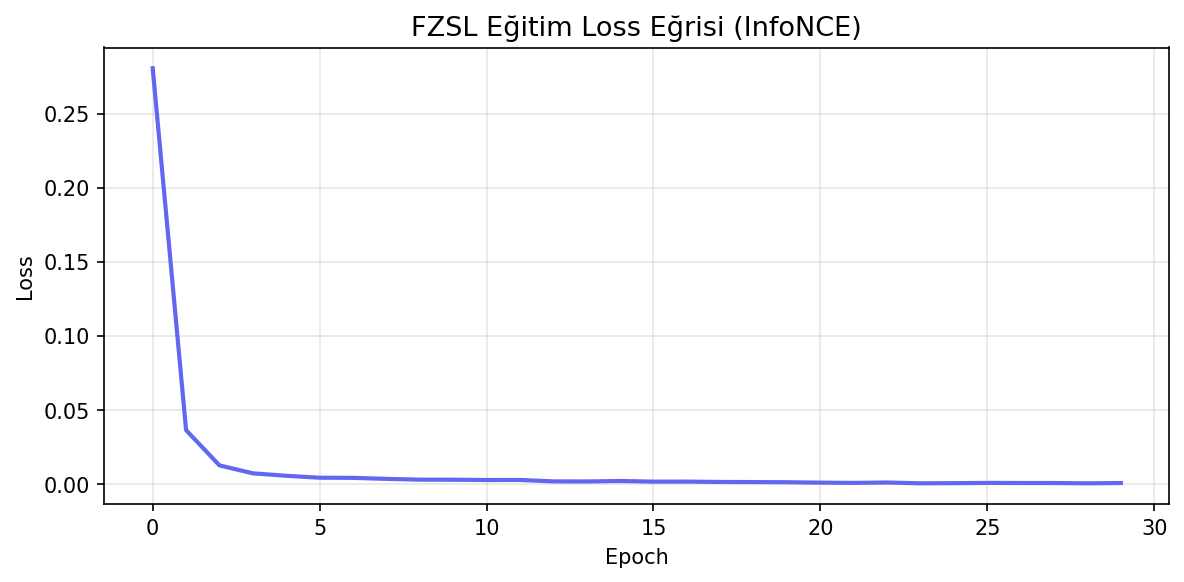
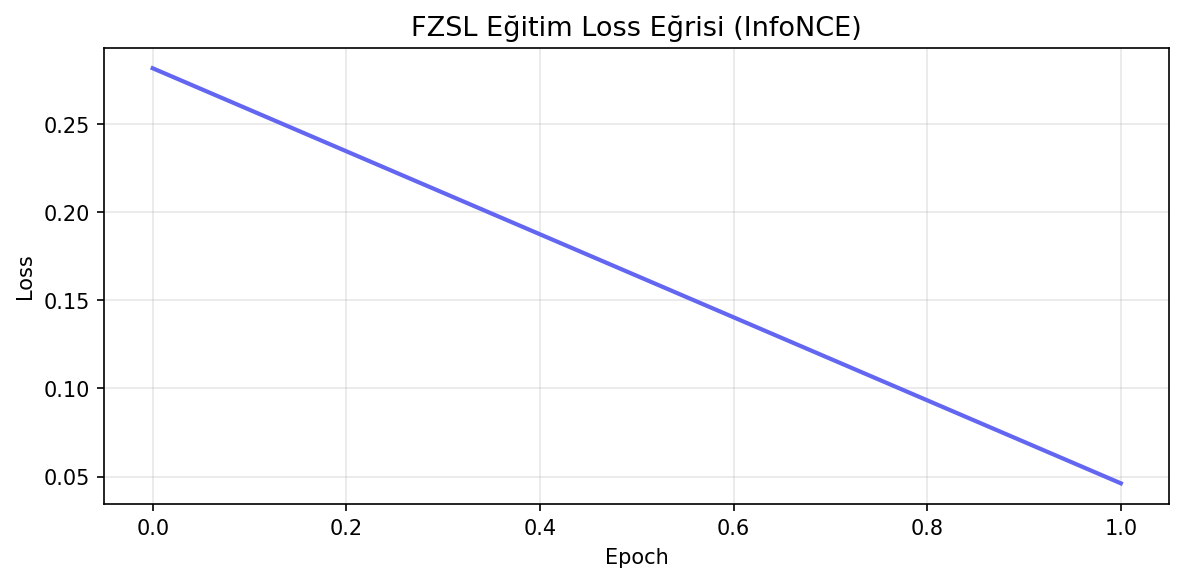
feat: implement FastAPI backend with FZSL-based fraud detection and transaction simulation service

diff --git a/backend/main.py b/backend/main.py
@@ -1,0 +1,146 @@
+from fastapi import FastAPI, HTTPException
+import pandas as pd
+import numpy as np
+import torch
+from sklearn.preprocessing import StandardScaler
+import os
+import sys
+
+# Proje ana dizinini path'e ekle (src modüllerine erişim için)
+sys.path.append(os.path.abspath(os.path.join(os.path.dirname(__file__), '..')))
+
+from backend.schemas import TransactionRequest, AnalysisResponse
+from src.fzsl.fzsl_model import FZSLModel, FZSLPredictor
+from src.fzsl.zsl_encoder import TextClassEncoder
+from src.fzsl.class_descriptions import FRAUD_CLASS_DESCRIPTIONS, SEEN_CLASSES, UNSEEN_CLASS
+
+app = FastAPI(
+    title="FraudDetection FZSL API",
+    description="Federated Zero-Shot Learning ile Anomali Tespiti ve Yeni Nesil Dolandırıcılık Yakalama Sistemi",
+    version="1.0.0"
+)
+
+# Global değişkenler
+scaler = None
+predictor = None
+stats = {
+    "total_requests": 0,
+    "normal_count": 0,
+    "fraud_count": 0,
+    "unknown_new_fraud_count": 0
+}
+
[email redacted]_event("startup")
+async def startup_event():
+    global scaler, predictor
+    print("[API] Baslatiliyor, bilesenler yukleniyor...")
+
+    # 1. Scaler hazirligi (Egitim verisinden)
+    csv_path = "data/creditcard.csv"
+    if not os.path.exists(csv_path):
+        print(f"[UYARI] {csv_path} bulunamadi. Scaler hazirlanamiyor.")
+    else:
+        print("[API] Veriseti yuklenip scaler fit ediliyor...")
+        df = pd.read_csv(csv_path)
+        feature_cols = [c for c in df.columns if c != "Class"]
+        X = df[feature_cols].values.astype(np.float32)
+        scaler = StandardScaler()
+        scaler.fit(X)
+        print("[API] Scaler hazir.")
+
+    # 2. Text Embedding'lerin hazirlanmasi
+    print("[API] Text embedding'ler SBERT ile hesaplaniyor...")
+    text_encoder = TextClassEncoder(embed_dim=128, backend="local")
+    all_class_order = SEEN_CLASSES + [UNSEEN_CLASS]
+    all_text_emb_matrix, all_class_order = text_encoder.get_class_embedding_matrix(
+        FRAUD_CLASS_DESCRIPTIONS, class_order=all_class_order
+    )
+    text_dim = all_text_emb_matrix.shape[1]
+
+    # 3. Model yuklenmesi
+    model_path = "checkpoints/fzsl_model.pt"
+    if not os.path.exists(model_path):
+        print(f"[UYARI] Model dosyasi bulunamadi: {model_path}")
+        print("[UYARI] Lutfen once 'python demo.py --mode fzsl' komutunu calistirin.")
+    else:
+        # Input dim genellikle 30'dur (Time, V1..V28, Amount)
+        input_dim = 30
+        model = FZSLModel(
+            input_dim=input_dim,
+            text_dim=text_dim,
+            proj_dim=128,
+            temperature=0.07
+        )
+        model.load_state_dict(torch.load(model_path, map_location="cpu"))
+        model.eval()
+
+        # 4. Predictor baslatma
+        predictor = FZSLPredictor(
+            model=model,
+            class_text_embeddings=all_text_emb_matrix,
+            class_order=all_class_order,
+            device="cpu",
+            optimal_threshold=0.5 # Default (gerekirse pr_curve sonuclarina gore degistirilebilir)
+        )
+        print("[API] Model ve Predictor basariyla yuklendi.")
+
[email redacted]("/health")
+async def health_check():
+    return {
+        "status": "ok",
+        "model_loaded": predictor is not None,
+        "scaler_loaded": scaler is not None
+    }
+
[email redacted]("/stats")
+async def get_stats():
+    return stats
+
[email redacted]("/analyze", response_model=AnalysisResponse)
+async def analyze_transaction(req: TransactionRequest):
+    global stats
+
+    if predictor is None or scaler is None:
+        raise HTTPException(status_code=503, detail="Model veya Scaler henuz hazir degil.")
+
+    stats["total_requests"] += 1
+
+    # Numpy array'e cevir
+    features = [
+        req.Time, req.V1, req.V2, req.V3, req.V4, req.V5, req.V6, req.V7, req.V8, req.V9,
+        req.V10, req.V11, req.V12, req.V13, req.V14, req.V15, req.V16, req.V17, req.V18, req.V19,
+        req.V20, req.V21, req.V22, req.V23, req.V24, req.V25, req.V26, req.V27, req.V28, req.Amount
+    ]
+    X_raw = np.array([features], dtype=np.float32)
+
+    # Olceklendir
+    X_scaled = scaler.transform(X_raw)
+
+    # Tahmin yap
+    pred_classes, sims = predictor.predict(X_scaled)
+    pred_class = pred_classes[0]
+    similarity_score = sims[0].max() # En yuksek benzerlik skoru
+
+    # Yorumlama
+    is_fraud = pred_class != "normal"
+    fraud_type = pred_class
+
+    # Yeni Fraud Alarm Mekanizmasi (UNKNOWN_NEW_FRAUD)
+    # Eger tahmin 'fraud_type_3' ise (eğitimde hiç görülmeyen sınıf)
+    if is_fraud and fraud_type == UNSEEN_CLASS:
+        fraud_type = "UNKNOWN_NEW_FRAUD"
+        message = "DIKKAT: Daha once hic gorulmemis, yeni bir fraud paterni (Zero-Shot) tespit edildi!"
+        stats["unknown_new_fraud_count"] += 1
+    elif is_fraud:
+        message = f"Fraud tespit edildi. Bilinen patern: {fraud_type}."
+        stats["fraud_count"] += 1
+    else:
+        message = "Islem normal gorunuyor."
+        stats["normal_count"] += 1
+
+    return AnalysisResponse(
+        is_fraud=is_fraud,
+        fraud_type=fraud_type,
+        confidence=float(similarity_score),
+        message=message
+    )

diff --git a/backend/schemas.py b/backend/schemas.py
@@ -1,0 +1,75 @@
+from pydantic import BaseModel, Field
+
+class TransactionRequest(BaseModel):
+    Time: float
+    V1: float
+    V2: float
+    V3: float
+    V4: float
+    V5: float
+    V6: float
+    V7: float
+    V8: float
+    V9: float
+    V10: float
+    V11: float
+    V12: float
+    V13: float
+    V14: float
+    V15: float
+    V16: float
+    V17: float
+    V18: float
+    V19: float
+    V20: float
+    V21: float
+    V22: float
+    V23: float
+    V24: float
+    V25: float
+    V26: float
+    V27: float
+    V28: float
+    Amount: float
+    
+    class Config:
+        schema_extra = {
+            "example": {
+                "Time": 0.0,
+                "V1": -1.3598071336738,
+                "V2": -0.0727811733098497,
+                "V3": 2.53634673796914,
+                "V4": 1.37815522427443,
+                "V5": -0.338320769942518,
+                "V6": 0.462387777762292,
+                "V7": 0.239598554061257,
+                "V8": 0.0986979012610507,
+                "V9": 0.363786969611213,
+                "V10": 0.0907941719789316,
+                "V11": -0.551599533260813,
+                "V12": -0.617800855762348,
+                "V13": -0.991389847235408,
+                "V14": -0.311169353699879,
+                "V15": 1.46817697209427,
+                "V16": -0.470400525259478,
+                "V17": 0.207971241929242,
+                "V18": 0.0257905801985591,
+                "V19": 0.403992960255733,
+                "V20": 0.251412098239705,
+                "V21": -0.018306777944153,
+                "V22": 0.277837575558899,
+                "V23": -0.110473910188767,
+                "V24": 0.0669280749146731,
+                "V25": 0.128539358273528,
+                "V26": -0.189114843888824,
+                "V27": 0.133558376740387,
+                "V28": -0.0210530534538215,
+                "Amount": 149.62
+            }
+        }
+
+class AnalysisResponse(BaseModel):
+    is_fraud: bool
+    fraud_type: str
+    confidence: float
+    message: str

diff --git a/backend/simulator.py b/backend/simulator.py
@@ -1,0 +1,69 @@
+import pandas as pd
+import time
+import requests
+import sys
+
+API_URL = "http://localhost:8000/analyze"
+CSV_PATH = "data/creditcard.csv"
+DELAY_SECONDS = 0.4 # Saniyede 2.5 islem
+
+def main():
+    print("=" * 60)
+    print("[BANK] FraudDetection Banka Simulatoru Baslatiliyor...")
+    print("=" * 60)
+
+    try:
+        # Sadece test amacli bir surec oldugu icin once df'i tamamen okuyoruz
+        # Buyuk veri ise chunk size ile de okunabilir ama demo icin yeterli
+        df = pd.read_csv(CSV_PATH)
+        feature_cols = [c for c in df.columns if c != "Class"]
+    except FileNotFoundError:
+        print(f"[HATA] {CSV_PATH} bulunamadı.")
+        sys.exit(1)
+
+    print(f"[BİLGİ] {len(df)} adet işlem kuyruğa alındı.")
+    print(f"[BİLGİ] İşlemler saniyede ~{1/DELAY_SECONDS:.1f} hızında API'ye gönderiliyor...\n")
+
+    for index, row in df.iterrows():
+        # Transaction modeline uygun dictionary olustur
+        payload = row[feature_cols].to_dict()
+
+        try:
+            response = requests.post(API_URL, json=payload)
+            
+            if response.status_code == 200:
+                result = response.json()
+                is_fraud = result.get("is_fraud", False)
+                fraud_type = result.get("fraud_type", "normal")
+                confidence = result.get("confidence", 0.0)
+                message = result.get("message", "")
+
+                # Formatli cikti
+                amount = payload.get("Amount", 0.0)
+                time_val = payload.get("Time", 0.0)
+                
+                base_info = f"Islem #{index} | Zaman: {time_val} | Tutar: ${amount:.2f}"
+                
+                if is_fraud:
+                    if fraud_type == "UNKNOWN_NEW_FRAUD":
+                        print(f"\n[!] [NEW FRAUD ALERT] {base_info}")
+                        print(f"   => {message}")
+                        print(f"   => Confidence: {confidence:.4f}\n")
+                    else:
+                        print(f"\n[!] [ALERT] {base_info}")
+                        print(f"   => Tip: {fraud_type} | Confidence: {confidence:.4f}\n")
+                else:
+                    # Normal islemler icin tek satir log (hizli akis hissi)
+                    sys.stdout.write(f"\r[OK] {base_info} - Normal")
+                    sys.stdout.flush()
+
+            else:
+                print(f"\n[HATA] API'den {response.status_code} dondu. {response.text}")
+        except requests.exceptions.ConnectionError:
+            print("\n[HATA] API'ye baglanilamadi. 'uvicorn backend.main:app' calisiyor mu?")
+            break
+
+        time.sleep(DELAY_SECONDS)
+
+if __name__ == "__main__":
+    main()

diff --git a/src/fzsl/train_fzsl.py b/src/fzsl/train_fzsl.py
@@ -415,7 +415,7 @@ def main():
     csv_path = "data/creditcard.csv"
     device = "cpu"
     proj_dim = 128
-    epochs = 30
+    epochs = 2
     lr = 1e-3
     batch_size = 256
     os.makedirs("outputs", exist_ok=True)
@@ -464,7 +464,7 @@ def main():
     print("\n" + "=" * 60)
     print("4. Class descriptions embedded with SBERT...")
     print("=" * 60)
-    text_encoder = TextClassEncoder(embed_dim=128, backend="sbert")
+    text_encoder = TextClassEncoder(embed_dim=128, backend="local")
 
     # Tüm sınıflar (seen + unseen) için embedding → inference'da kullanılacak
     all_class_order = SEEN_CLASSES + [UNSEEN_CLASS]